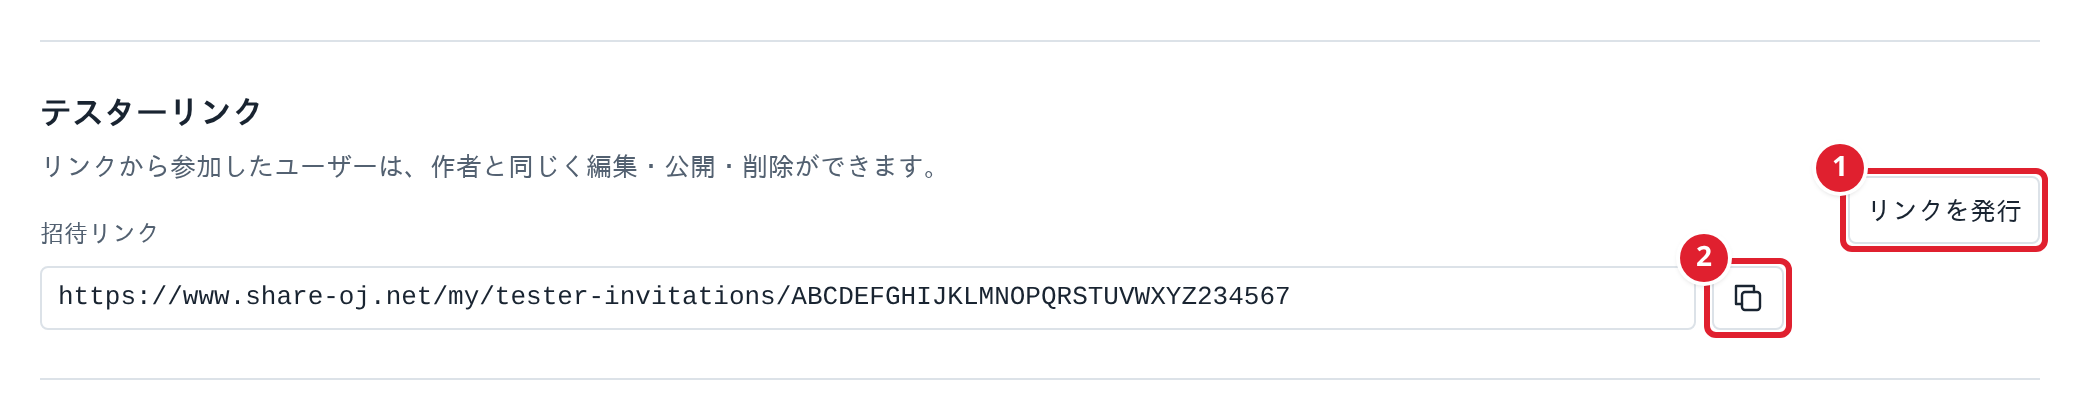
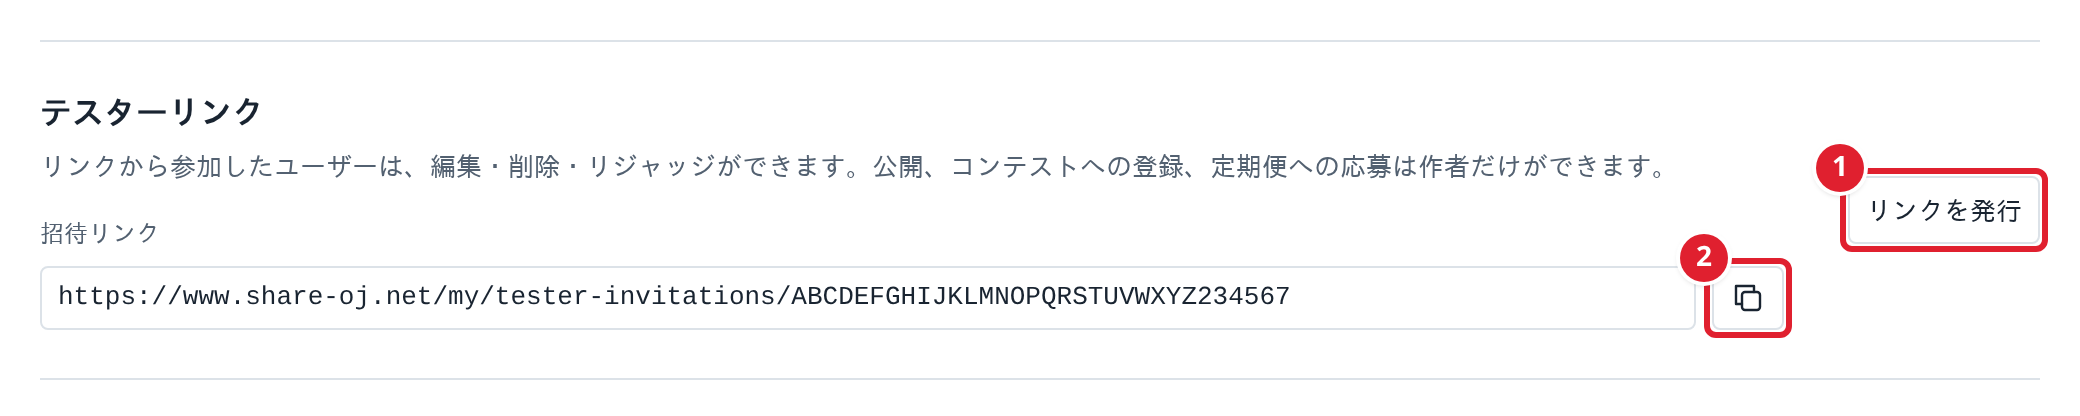
fix: 問題管理のテスターの説明を、作者だけができる操作に合わせる
テスターは編集・削除・リジャッジができるが、公開、公開予約、コンテストへの登録、定期便への応募は作者だけができる。

Changed region(s): [[0.1875, 0.375, 0.8125, 0.4375]]

diff --git a/web/app/pages/problems/new.vue b/web/app/pages/problems/new.vue
@@ -210,7 +210,7 @@ const mathSnippet = '\n```math\n\\sum_{i=1}^{N} A_i\n```\n'
         <header><h1 id="management-title">問題管理</h1><p class="manage-problem-title">{{ draft.title.trim() || '無題の問題' }}</p><p class="muted">{{ saveLocation }}</p></header>
         <section class="management-row readiness-row" aria-labelledby="readiness-title"><div><h2 id="readiness-title">状態</h2><ProblemReadiness :problem="statusInput" :saved="!!cloudId" @jump="jump" /></div></section>
         <section class="management-row"><div><h2>公開設定</h2><p v-if="publishedVersion">「保存」を押すと、問題文・解説・採点設定が公開内容に反映されます。</p><p v-else-if="scheduledAt">{{ new Date(scheduledAt).toLocaleString('ja-JP', { timeZone: 'Asia/Tokyo' }) }}（日本時間）に公開予約中です。編集を公開内容に反映するには、保存後に予約を更新してください。<NuxtLink :to="{ path: '/problems', query: { post: '1', problem: cloudId } }">予約を変更・取り消す</NuxtLink></p><p v-else>問題一覧の「投稿」から公開できます。</p><p v-if="publicationError" class="editor-error" role="alert">{{ publicationError }}</p><NuxtLink v-if="publishedVersion" :to="`/problems/${shortId(cloudId)}`" target="_blank">公開ページを見る</NuxtLink></div><div v-if="publishedVersion" class="publication-actions"><button class="editor-button" :disabled="saving || publishing || generating" @click="unpublishProblem()">非公開に戻す</button></div></section>
-        <section class="management-row"><div class="tester-link-row"><h2>テスターリンク</h2><p>リンクから参加したユーザーは、作者と同じく編集・公開・削除ができます。</p><template v-if="testerLink"><label for="tester-link">招待リンク</label><div class="tester-link-field"><input id="tester-link" :value="testerLink" readonly @focus="($event.target as HTMLInputElement).select()"><button type="button" class="editor-button tester-link-copy" :aria-label="testerLinkCopied ? 'コピーしました' : 'リンクをコピー'" :title="testerLinkCopied ? 'コピーしました' : 'リンクをコピー'" @click="copyTesterLink"><svg v-if="testerLinkCopied" class="editor-icon" viewBox="0 0 24 24" aria-hidden="true"><path d="m5 12 5 5L19 8" /></svg><svg v-else class="editor-icon" viewBox="0 0 24 24" aria-hidden="true"><rect x="8" y="8" width="12" height="12" rx="2" /><path d="M16 8V4H4v12h4" /></svg></button></div></template><p v-if="testerLinkMessage" role="status">{{ testerLinkMessage }}</p></div><button type="button" class="editor-button" :disabled="!ready || saving || publishing || generating || testerLinkBusy" @click="createTesterLink">{{ testerLinkBusy ? '発行中…' : 'リンクを発行' }}</button></section>
+        <section class="management-row"><div class="tester-link-row"><h2>テスターリンク</h2><p>リンクから参加したユーザーは、編集・削除・リジャッジができます。公開、コンテストへの登録、定期便への応募は作者だけができます。</p><template v-if="testerLink"><label for="tester-link">招待リンク</label><div class="tester-link-field"><input id="tester-link" :value="testerLink" readonly @focus="($event.target as HTMLInputElement).select()"><button type="button" class="editor-button tester-link-copy" :aria-label="testerLinkCopied ? 'コピーしました' : 'リンクをコピー'" :title="testerLinkCopied ? 'コピーしました' : 'リンクをコピー'" @click="copyTesterLink"><svg v-if="testerLinkCopied" class="editor-icon" viewBox="0 0 24 24" aria-hidden="true"><path d="m5 12 5 5L19 8" /></svg><svg v-else class="editor-icon" viewBox="0 0 24 24" aria-hidden="true"><rect x="8" y="8" width="12" height="12" rx="2" /><path d="M16 8V4H4v12h4" /></svg></button></div></template><p v-if="testerLinkMessage" role="status">{{ testerLinkMessage }}</p></div><button type="button" class="editor-button" :disabled="!ready || saving || publishing || generating || testerLinkBusy" @click="createTesterLink">{{ testerLinkBusy ? '発行中…' : 'リンクを発行' }}</button></section>
         <ProblemRejudge v-if="cloudId" :problem-id="cloudId" :saved="saveState === 'saved' || saveState === 'unpublished'" :disabled="saving || publishing || generating" />
         <section class="management-row"><div><h2>テストケースの一括削除</h2><p>登録したテストケースをすべて削除します。</p></div><button type="button" class="editor-button" :disabled="!draft.testCases.length || publishing || generating" @click="clearTestCases">一括削除</button></section>
         <section class="management-row"><div><h2>問題の削除</h2><p>この操作は取り消せません。</p></div><button type="button" class="editor-button danger" :disabled="generating" @click="openDeleteConfirmation">問題を削除</button></section>
